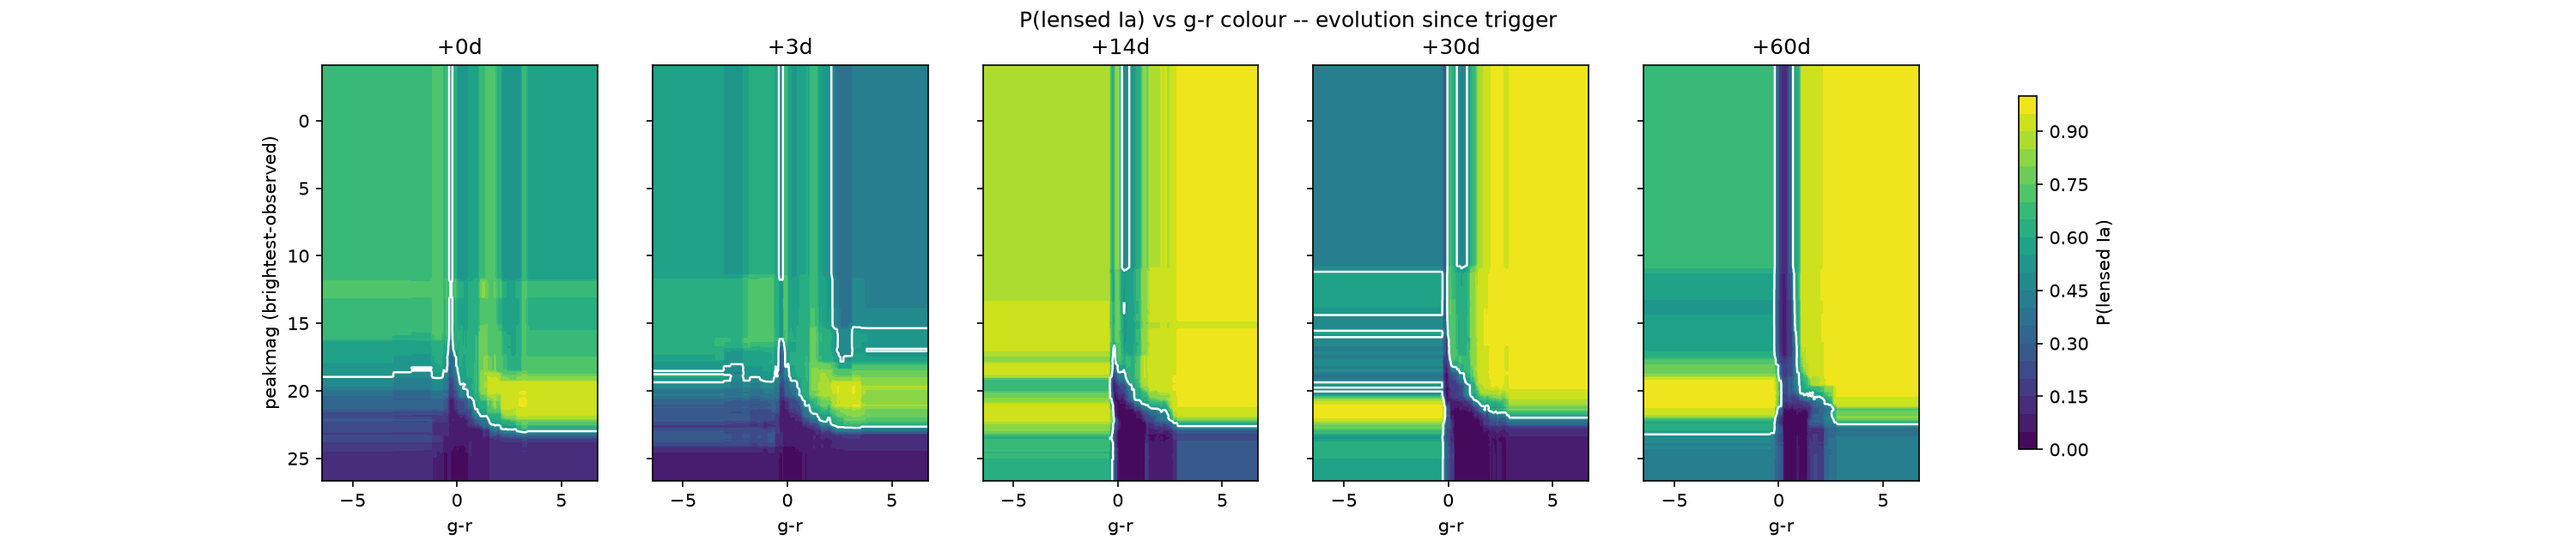
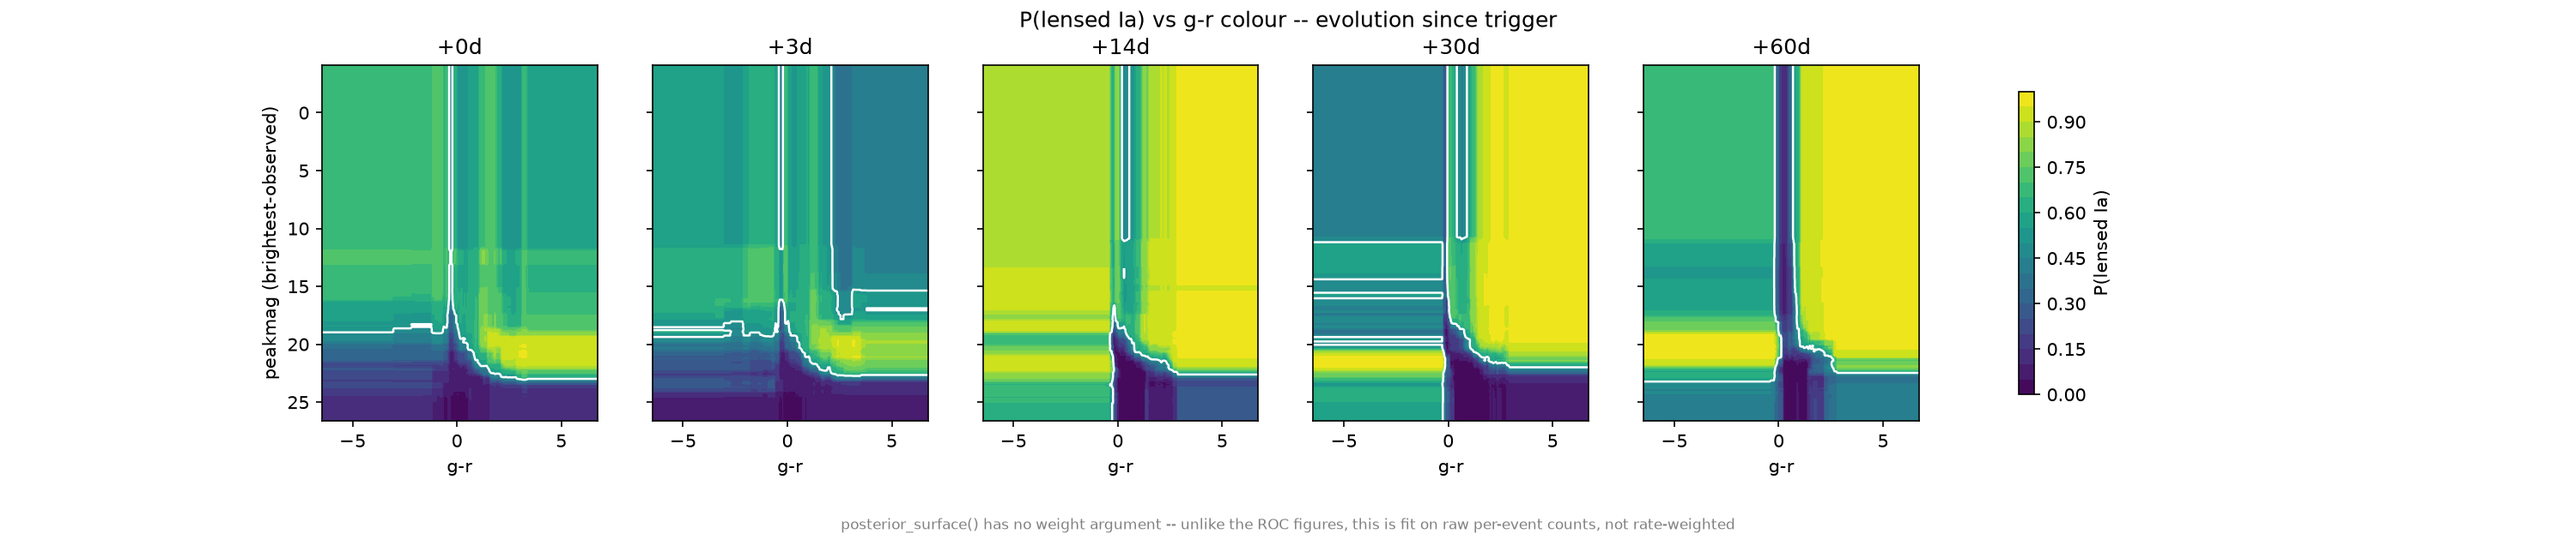
fix: review findings on plot_evolving_boundaries.py
- invert_yaxis() was called once per axis inside a sharey=True loop, which
  toggles the shared ylim rather than inverting it once -- happened to net
  out correct only because TRAJECTORY_GRID currently has an odd number of
  steps (5). Moved to a single call on axes[0] after the loop.
- shared_ranges() now raises a clear error if a band pair has no finite
  colour/magnitude values at any grid step, instead of silently feeding
  NaN into posterior_surface() -> np.linspace(nan, nan, n) -> an opaque
  sklearn crash deep inside ColourClassifier.fit(). main() catches this per
  pair and skips it instead of aborting the whole run.
- Added a caption noting posterior_surface() has no weight argument, so
  these figures are fit on raw per-event counts, not rate-weighted like
  the ROC figures -- a pre-existing limitation of posterior_surface()
  itself (out of scope for #18 to change), now visible on the figure.

diff --git a/scripts/plot_evolving_boundaries.py b/scripts/plot_evolving_boundaries.py
@@ -58,6 +58,10 @@ def shared_ranges(signal, background, pair_key, grid=TRAJECTORY_GRID):
         colours.extend(e.get(colour_key, np.nan) for e in pooled)
         mags.extend(e.get(magnitude_key, np.nan) for e in pooled)
     colours, mags = np.asarray(colours, float), np.asarray(mags, float)
+    if not np.any(np.isfinite(colours)) or not np.any(np.isfinite(mags)):
+        raise ValueError(
+            f"'{pair_key}' has no finite colour/magnitude values at any grid step "
+            "-- nothing observed this band pair in the given population")
     return ((float(np.nanmin(colours)), float(np.nanmax(colours))),
             (float(np.nanmin(mags)), float(np.nanmax(mags))))
 
@@ -77,9 +81,16 @@ def plot_boundary_evolution(signal, background, pair_key, out_path, grid=TRAJECT
         ax.contour(cg, mg, pg, levels=[0.5], colors='white', linewidths=1.2)
         ax.set_title(f'+{day:.0f}d')
         ax.set_xlabel(f'{pair_key[0]}-{pair_key[1]}')
-        ax.invert_yaxis()
+    # Axes share y (sharey=True), so inverting once on any one of them inverts
+    # all of them -- calling invert_yaxis() per-axis in the loop above would
+    # toggle the shared ylim back and forth once per axis instead.
+    axes[0].invert_yaxis()
     axes[0].set_ylabel('peakmag (brightest-observed)')
     fig.suptitle(f'P(lensed Ia) vs {pair_key[0]}-{pair_key[1]} colour -- evolution since trigger')
+    fig.subplots_adjust(bottom=0.22)
+    fig.text(0.5, 0.02, 'posterior_surface() has no weight argument -- unlike the ROC figures, '
+                        'this is fit on raw per-event counts, not rate-weighted',
+            ha='center', fontsize=8, color='gray')
     fig.colorbar(mesh, ax=axes, shrink=0.85, label='P(lensed Ia)')
     fig.savefig(out_path, dpi=150)
     plt.close(fig)
@@ -99,7 +110,11 @@ def main():
     for pair_key in PAIR_KEYS:
         out_path = os.path.join(args.out_dir, f'boundary_{pair_key}.png')
         print(f'fitting {pair_key} ({len(TRAJECTORY_GRID)} grid steps)...')
-        plot_boundary_evolution(signal, background, pair_key, out_path, n=args.n)
+        try:
+            plot_boundary_evolution(signal, background, pair_key, out_path, n=args.n)
+        except ValueError as exc:
+            print(f'skipping {pair_key}: {exc}')
+            continue
         print(f'wrote {out_path}')
 
 
